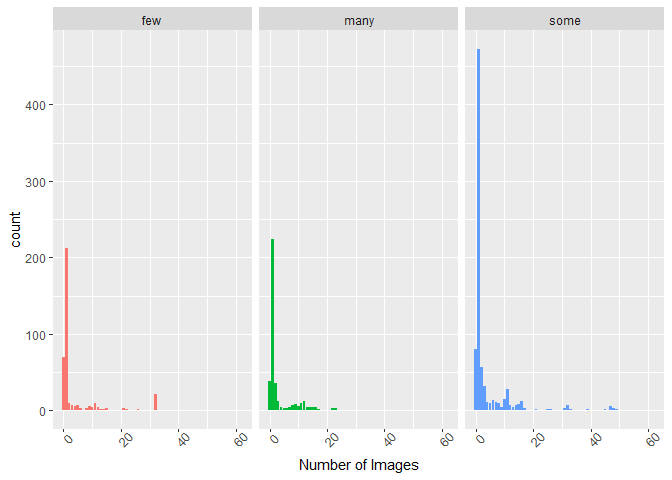
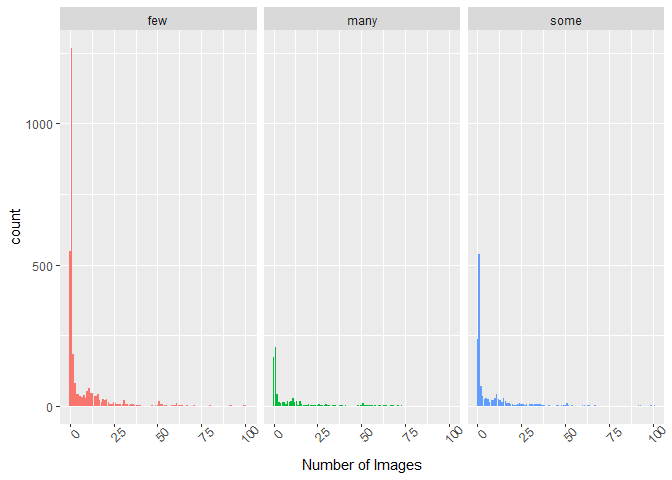
updated files

diff --git a/Reports/data_channel_is_entertainment.md b/Reports/data_channel_is_entertainment.md
@@ -1,7 +1,7 @@
-Project 2
+entertainment analysis
 ================
 Brennan Clinch
-10/22/2021
+10/25/2021
 
 -   [Introduction](#introduction)
 -   [Import and Subset data](#import-and-subset-data)
@@ -27,12 +27,12 @@ and
 To predict the Number of Shares, we will use linear regression and
 ensemble based tree methods, including random forest and boosted trees.
 
-The data channel we will be analyzing is the socmed channel.
+The data channel we will be analyzing is the entertainment channel.
 
 # Import and Subset data
 
 I am going to import the dataset using a relative path and then subset
-it to only include data from the social media channel.
+it to only include data from the entertainment channel.
 
 ``` r
 library(readr)
@@ -52,7 +52,7 @@ data0<-read_csv("OnlineNewsPopularity.csv")
     ## i Specify the column types or set `show_col_types = FALSE` to quiet this message.
 
 ``` r
-data0<-subset(data0, data_channel_is_socmed == 1)
+data0<-subset(data0, data_channel_is_entertainment == 1)
 head(data)
 ```
 
@@ -87,7 +87,7 @@ knitr ::kable(sharesSumm)
 
 | Min | 1st Quartile | Median | 3rd Quartile |    Max |
 |----:|-------------:|-------:|-------------:|-------:|
-|   5 |         1400 |   2100 |         3800 | 122800 |
+|  47 |          833 |   1200 |         2100 | 197600 |
 
 Based on this information, I will categorize the numbers of shares in
 the following way: *Less that 1400 shares is “few” *Between 1400 and
